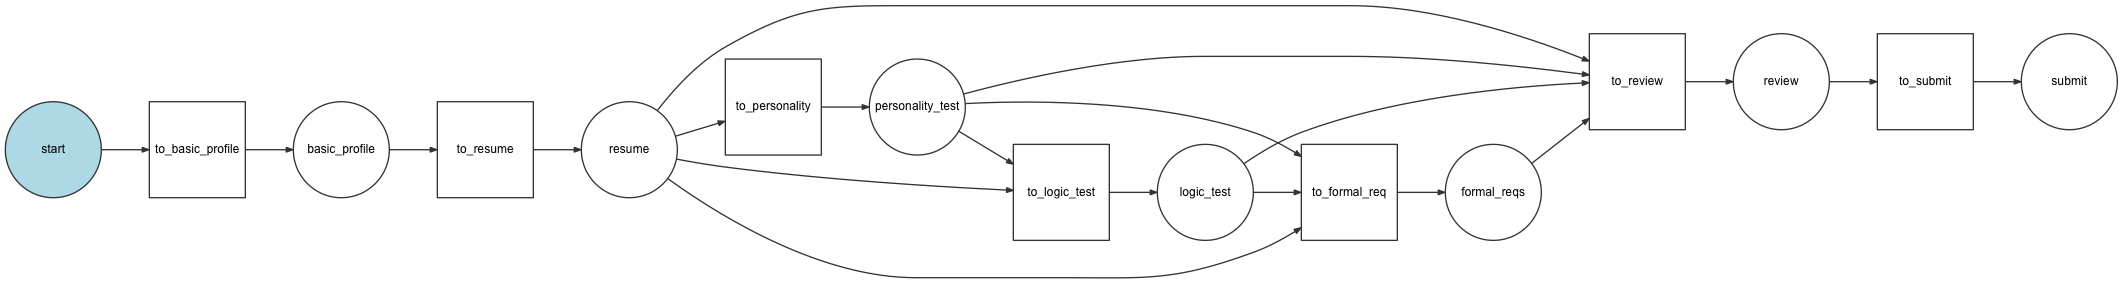
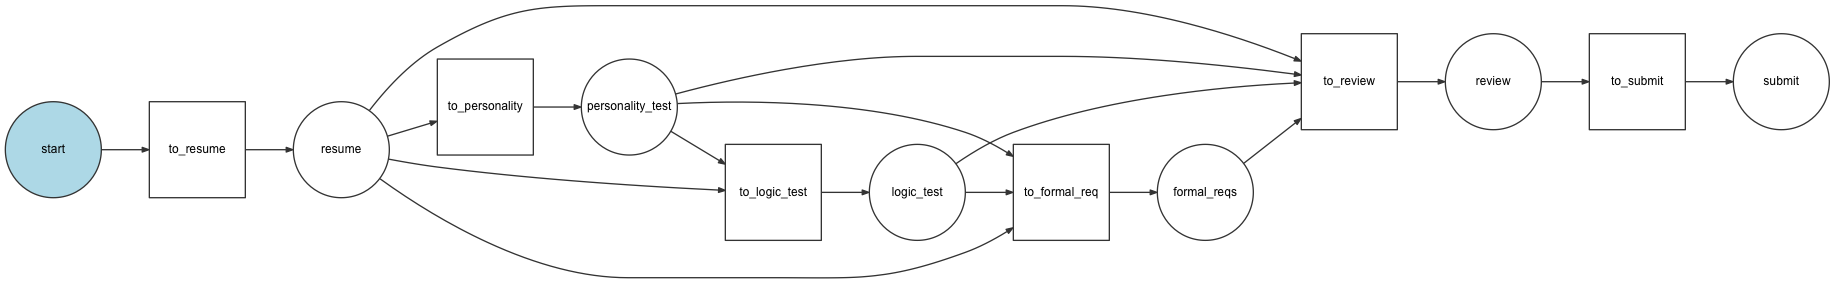
simplify job_application

diff --git a/workflow.rst b/workflow.rst
@@ -32,7 +32,7 @@ workflow below descirbes the process to fill in a job application.
 
 .. image:: /_images/components/workflow/job_application.png
 
-When you fill in a job application in this examplethere are 5 to 8 steps depending
+When you fill in a job application in this examplethere are 4 to 7 steps depending
 on the what job you are applying for. Some jobs requires personality test, logic tests
 and/or formal requirements to be answered by the user. Some jobs don't. We use the
 ``GuardEvent`` to decide what next steps that are allowed for a specific application.
